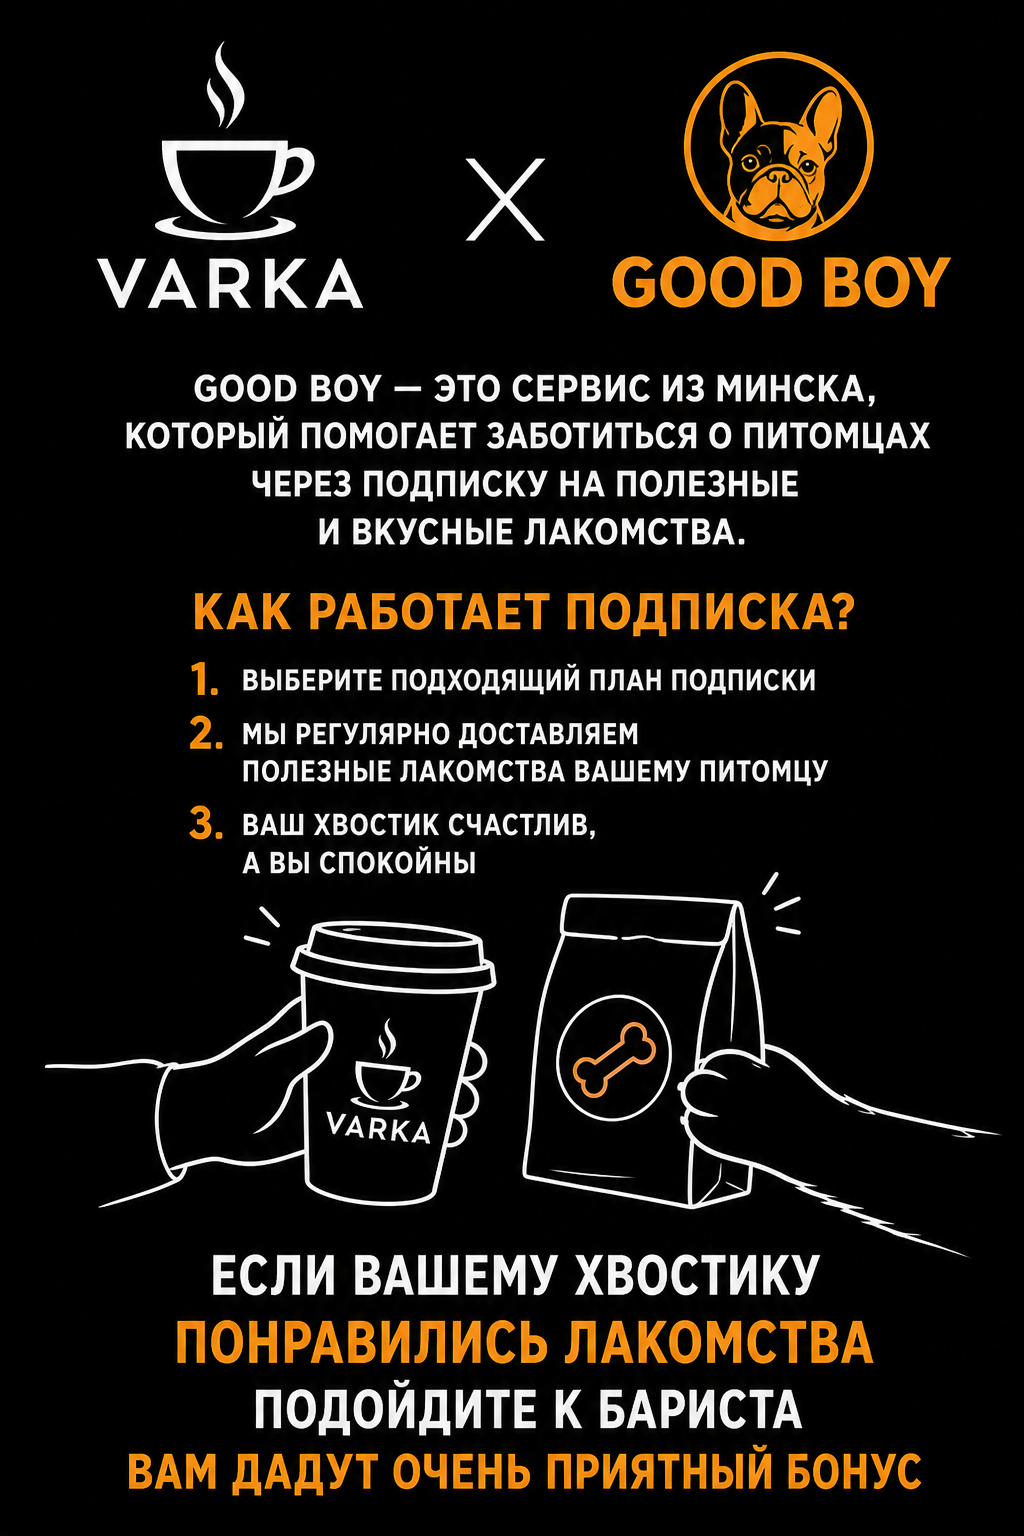
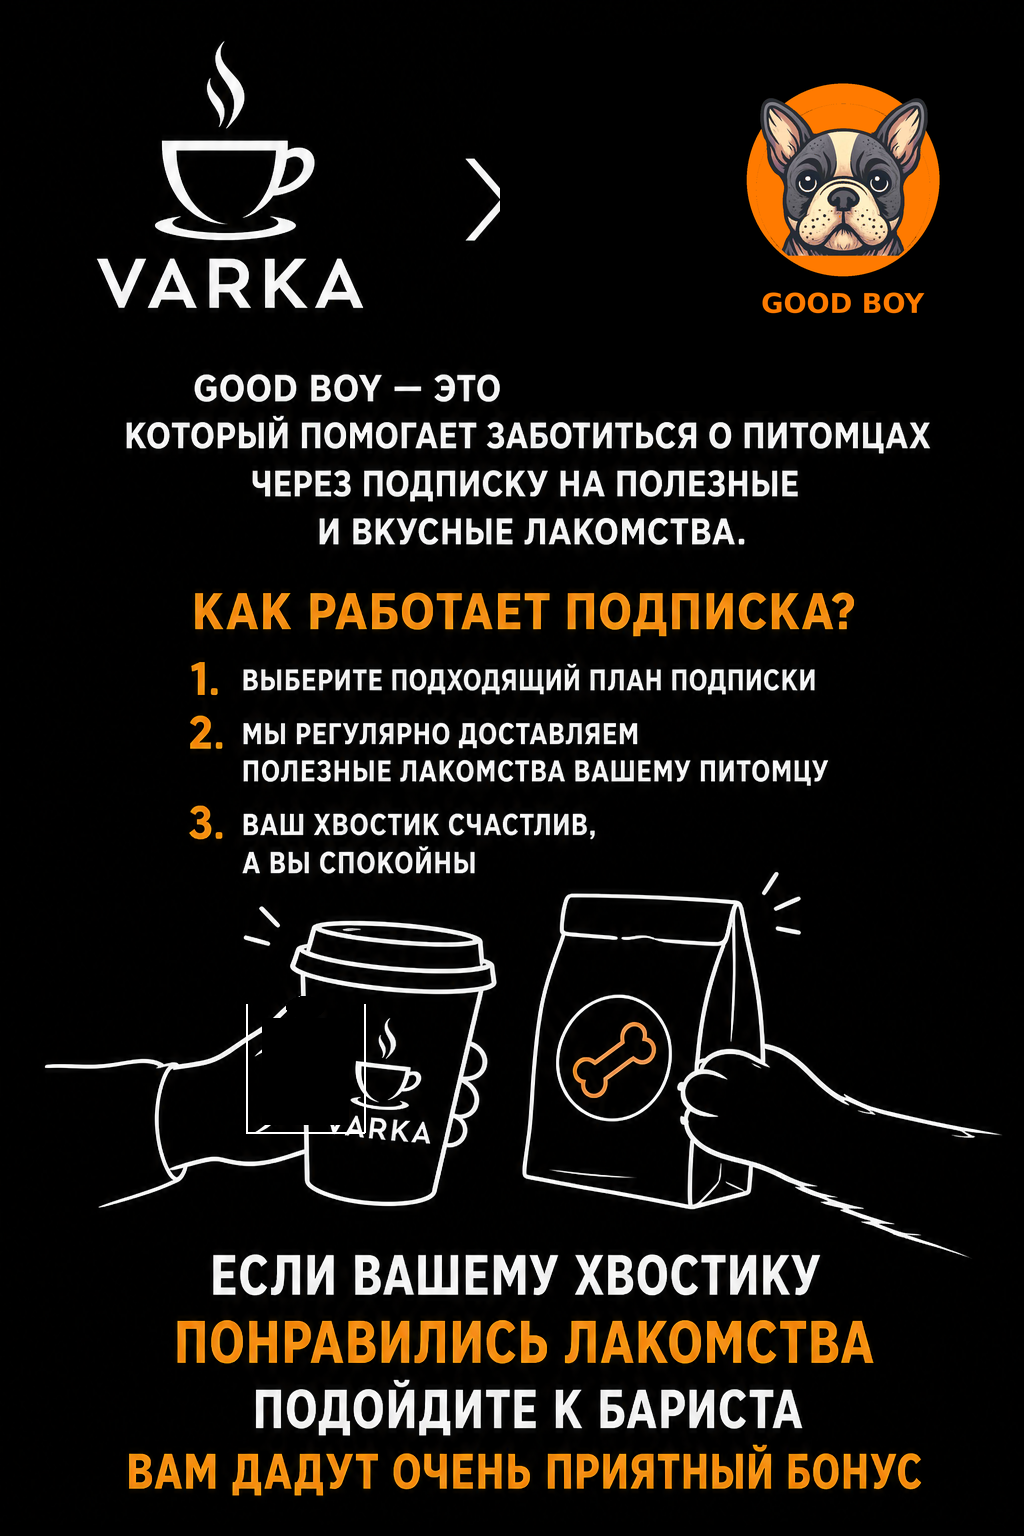
fix(varka): реальный лого Good Boy на баннере, убрать Varka со стакана

Changed region(s): [[0.5, 0.0312, 0.9375, 0.2812], [0.25, 0.6562, 0.3438, 0.75], [0.4688, 0.0938, 0.5312, 0.1562]]

diff --git a/varka/app.html b/varka/app.html
@@ -473,7 +473,7 @@
 
   <script>
 (function () {
-  var APP_VER = "3.2.5";
+  var APP_VER = "3.2.6";
   // Бойня C (Worker+D1) — тот же бэкенд, что конвейер. Не сырой GAS /exec.
   var VARKA_WEBHOOK_URL = "https://boinya-c.konchaarsenia.workers.dev";
   var SESSION_KEY = "gb_partner_session_v10";

diff --git a/varka/index.html b/varka/index.html
@@ -14,7 +14,7 @@
   </style>
   <script>
     (function () {
-      var ver = "325";
+      var ver = "326";
       location.replace("app.html?v=" + ver);
     })();
   </script>
